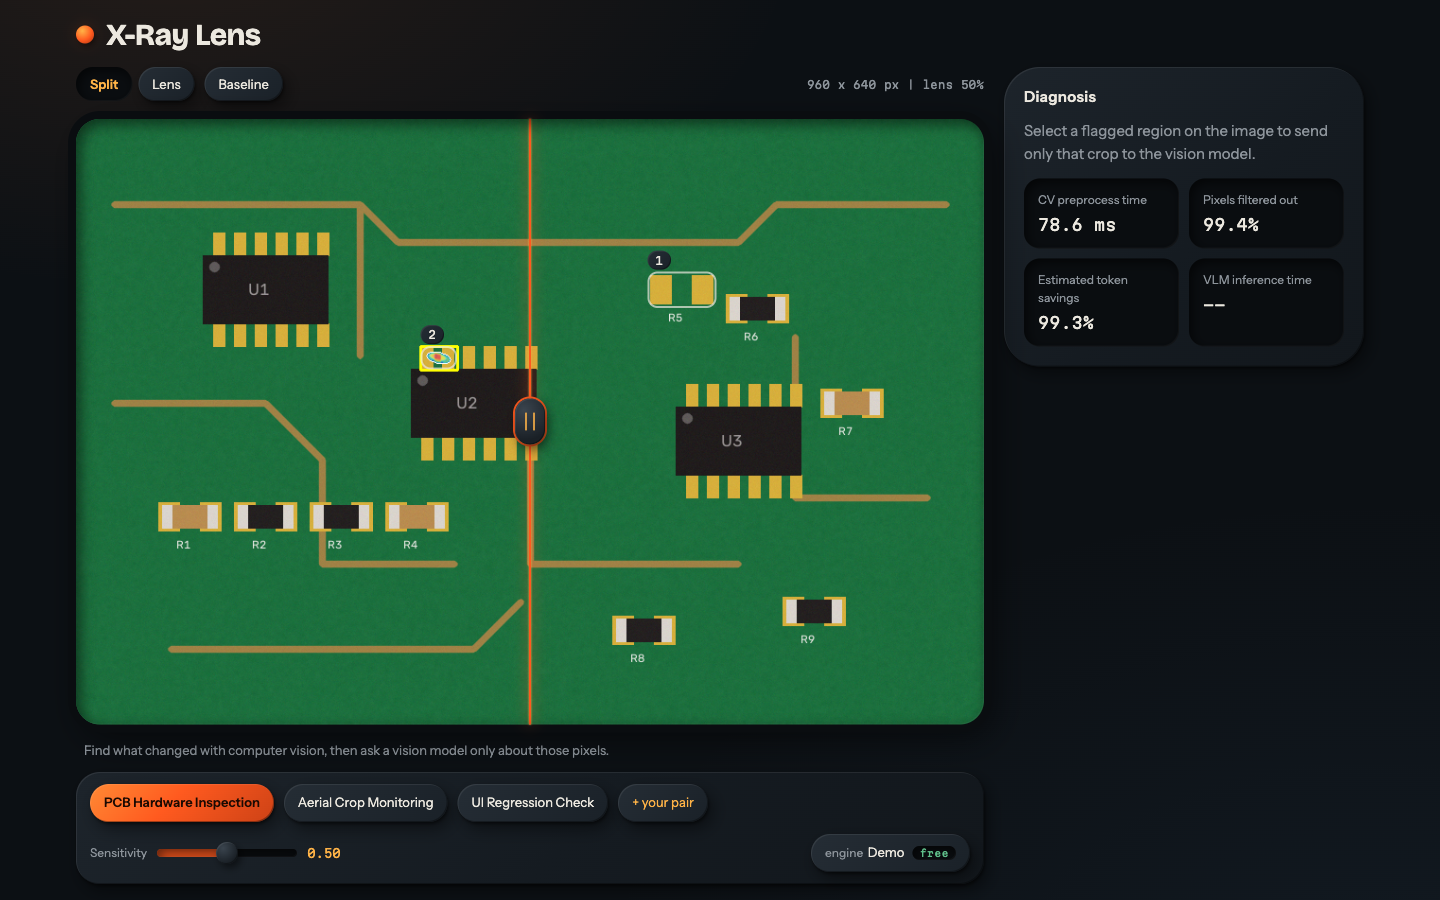
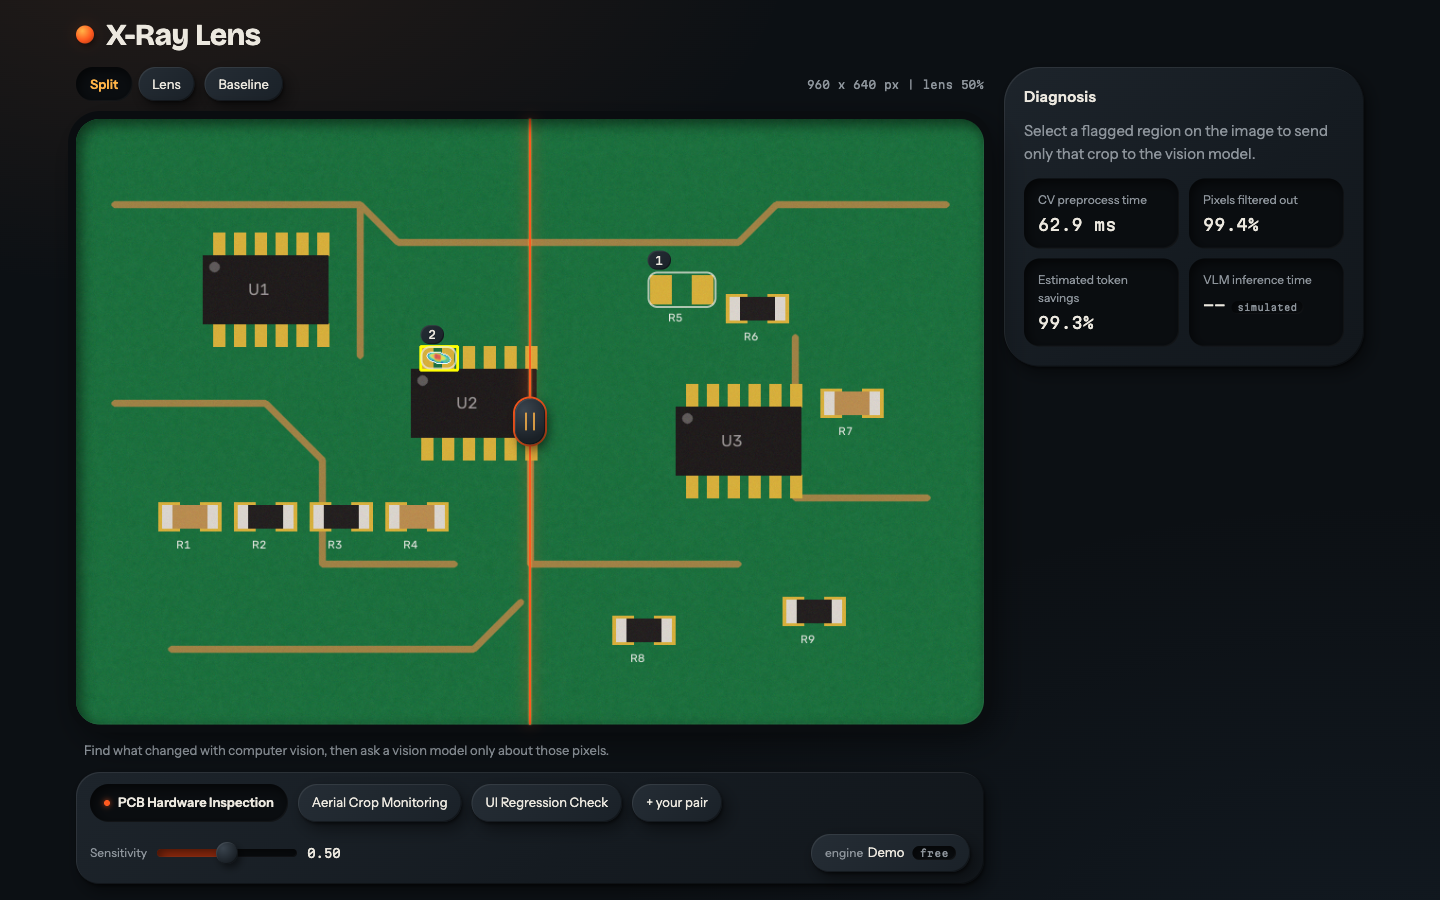
feat(frontend): one accent, simulated tag, mobile tray row, sheet focus return

Changed region(s): [[0.0625, 0.8711, 0.5, 0.9644], [0.7188, 0.2489, 0.75, 0.28]]

diff --git a/frontend/src/styles.css b/frontend/src/styles.css
@@ -83,12 +83,8 @@ button, select, input { font: inherit; color: inherit; }
 .chip:hover, .btn:hover, .seg button:hover, .seg-solo:hover, .file:hover, .sheet button:hover { transform: translateY(-1px); }
 .chip:active, .btn:active, .seg button:active, .seg-solo:active, .file:active, .sheet button:active { transform: scale(0.955); }
 [aria-pressed="true"].seg-solo, .seg [aria-pressed="true"] { background: var(--well); box-shadow: var(--recess); color: var(--paint-hi); font-weight: 600; }
-[aria-pressed="true"].chip {
-  background: linear-gradient(135deg, var(--paint-hi) -40%, var(--paint) 45%, var(--paint-deep) 140%);
-  color: #1c0a02;
-  font-weight: 600;
-  animation: pop var(--spring-snappy-dur) var(--spring-snappy);
-}
+[aria-pressed="true"].chip { background: var(--well); box-shadow: var(--recess); color: var(--text); font-weight: 600; transform: none; animation: pop var(--spring-snappy-dur) var(--spring-snappy); }
+[aria-pressed="true"].chip::before { content: ""; display: inline-block; width: 6px; height: 6px; margin: 0 8px 1px 0; border-radius: 50%; background: var(--paint); box-shadow: 0 0 6px var(--paint); }
 @keyframes pop { from { transform: scale(0.92); } to { transform: scale(1); } }
 .btn { background: linear-gradient(135deg, var(--paint-hi) -40%, var(--paint) 45%, var(--paint-deep) 140%); color: #1c0a02; font-weight: 600; }
 .btn:disabled { background: var(--well); box-shadow: var(--recess); color: var(--muted); cursor: not-allowed; transform: none; }
@@ -97,17 +93,17 @@ button, select, input { font: inherit; color: inherit; }
 .tray { position: relative; display: flex; flex-wrap: wrap; align-items: center; gap: 12px 18px; padding: 12px 14px; border-radius: var(--r-lg); background: var(--body); box-shadow: var(--rim), var(--contact); }
 .chips { display: flex; flex-wrap: wrap; gap: 10px; }
 .chip { font-size: 13px; }
-.chip-add { color: var(--paint-hi); }
-.tag { font-style: normal; font-size: 10px; letter-spacing: 0.04em; margin-left: 8px; padding: 1px 7px; border-radius: var(--r-pill); background: var(--well); box-shadow: var(--recess); color: var(--low); }
+.chip-add { color: var(--text); }
+.tag { font-style: normal; font-size: 10px; letter-spacing: 0.04em; margin-left: 8px; padding: 1px 7px; border-radius: var(--r-pill); background: var(--well); box-shadow: var(--recess); color: var(--muted); }
 .dim { color: var(--muted); font-size: 12px; margin-right: 2px; }
 [aria-pressed="true"].chip .dim { color: inherit; }
 .engine { margin-left: auto; position: relative; }
 
 .sens { display: flex; align-items: center; gap: 10px; font-size: 12px; color: var(--muted); }
-.sens output { color: var(--paint-hi); font-size: 12px; width: 4ch; }
+.sens output { color: var(--text); font-size: 12px; width: 4ch; }
 .sens input { -webkit-appearance: none; appearance: none; width: 140px; height: 22px; background: transparent; cursor: pointer; margin: 0; }
-.sens input::-webkit-slider-runnable-track { height: 8px; border-radius: var(--r-pill); box-shadow: var(--recess); background: linear-gradient(90deg, var(--paint) var(--fill, 50%), var(--well) var(--fill, 50%)); }
-.sens input::-moz-range-track { height: 8px; border-radius: var(--r-pill); box-shadow: var(--recess); background: linear-gradient(90deg, var(--paint) var(--fill, 50%), var(--well) var(--fill, 50%)); }
+.sens input::-webkit-slider-runnable-track { height: 8px; border-radius: var(--r-pill); box-shadow: var(--recess); background: linear-gradient(90deg, var(--paint-deep) var(--fill, 50%), var(--well) var(--fill, 50%)); }
+.sens input::-moz-range-track { height: 8px; border-radius: var(--r-pill); box-shadow: var(--recess); background: linear-gradient(90deg, var(--paint-deep) var(--fill, 50%), var(--well) var(--fill, 50%)); }
 .sens input::-webkit-slider-thumb { -webkit-appearance: none; width: 22px; height: 22px; margin-top: -7px; border-radius: 50%; border: 0; background: radial-gradient(circle at 32% 28%, #3a444e, #1a2026 70%); box-shadow: var(--rim), 3px 4px 8px rgba(0, 0, 0, 0.55); transition: transform var(--spring-snappy-dur) var(--spring-snappy); }
 .sens input::-moz-range-thumb { width: 22px; height: 22px; border-radius: 50%; border: 0; background: radial-gradient(circle at 32% 28%, #3a444e, #1a2026 70%); box-shadow: var(--rim), 3px 4px 8px rgba(0, 0, 0, 0.55); }
 .sens input:active::-webkit-slider-thumb { transform: scale(0.955); }
@@ -126,6 +122,7 @@ button, select, input { font: inherit; color: inherit; }
 /* ---- Stage ---- */
 .workspace { display: grid; grid-template-columns: minmax(0, 1fr) 360px; gap: 20px; align-items: start; }
 .view { position: relative; display: grid; gap: 12px; min-width: 0; }
+.view > * { min-width: 0; }
 .placeholder { aspect-ratio: 3 / 2; display: grid; place-items: center; color: var(--muted); border-radius: var(--r-lg); background: var(--well); box-shadow: var(--recess); padding: 16px; text-align: center; }
 .scan { position: absolute; right: 22px; top: 62px; z-index: 5; font: 12px var(--mono); color: var(--paint-hi); background: rgba(10, 13, 16, 0.8); padding: 3px 10px; border-radius: var(--r-pill); }
 
@@ -162,11 +159,11 @@ button, select, input { font: inherit; color: inherit; }
 .panel-head h2 { margin: 0 auto 0 0; font: 600 15px var(--sans); letter-spacing: 0.02em; }
 .panel .chip { min-height: 0; padding: 2px 10px; font: 11px var(--mono); color: var(--muted); background: var(--well); box-shadow: var(--recess); cursor: default; }
 .panel .chip:hover, .panel .chip:active { transform: none; }
-.panel .chip-cached { color: var(--low); }
 .hint { color: var(--muted); margin: 0; }
 .sent { margin: 0; display: grid; gap: 6px; }
 .sent img { max-width: 100%; max-height: 90px; justify-self: start; border-radius: var(--r-sm); image-rendering: pixelated; box-shadow: var(--contact); }
-.sent figcaption { font: 11px var(--mono); color: var(--muted); }
+.sent figcaption { display: grid; gap: 2px; font-size: 11px; color: var(--muted); }
+.sent figcaption b { font: 400 11px var(--mono); white-space: nowrap; }
 .raw { margin: 0; min-height: 120px; max-height: 260px; overflow: auto; white-space: pre-wrap; word-break: break-word; font-size: 11.5px; color: #9fb0bf; background: var(--well); border-radius: var(--r-md); box-shadow: var(--recess); padding: 14px; }
 .caret { display: inline-block; width: 7px; height: 13px; margin-left: 2px; background: var(--paint); vertical-align: -2px; animation: blink 1s steps(2) infinite; }
 @keyframes blink { 50% { opacity: 0; } }
@@ -190,7 +187,8 @@ button, select, input { font: inherit; color: inherit; }
 
 .telemetry { margin: 0; display: grid; grid-template-columns: 1fr 1fr; gap: 10px; }
 .telemetry div { background: var(--well); box-shadow: var(--recess); border-radius: var(--r-md); padding: 12px 14px; }
-.telemetry dd { margin: 4px 0 0; font-size: 16px; color: var(--text); }
+.telemetry dd { margin: 4px 0 0; font-size: 16px; color: var(--text); white-space: nowrap; }
+.telemetry .tag { margin-left: 6px; font-size: 9px; padding: 1px 6px; }
 
 @media (max-width: 960px) {
   .workspace { grid-template-columns: minmax(0, 1fr); }
@@ -198,9 +196,15 @@ button, select, input { font: inherit; color: inherit; }
 @media (max-width: 520px) {
   .app { padding: 14px 16px 32px; gap: 12px; }
   .stage { box-shadow: 0 0 0 6px var(--well), 6px 8px 24px rgba(0, 0, 0, 0.55); }
-  .sens { width: 100%; }
   .sens input { flex: 1; width: auto; min-width: 0; }
-  .engine { margin-left: 0; }
+  .engine { margin-left: auto; }
+  .tray { gap: 10px 12px; padding: 10px 12px; }
+  .chips { flex-wrap: nowrap; width: 100%; min-width: 0; overflow-x: auto; scroll-snap-type: x mandatory; scroll-padding: 0 4px; scrollbar-width: none; padding: 4px 4px 10px; margin: -4px -4px -6px; }
+  .chips::-webkit-scrollbar { display: none; }
+  .chip { flex: none; scroll-snap-align: start; white-space: nowrap; }
+  .sens span { display: none; }
+  .sens { flex: 1 1 0; min-width: 0; }
+  .sens input { width: 100%; }
   .sheet { min-width: 0; max-width: calc(100vw - 32px); }
   .sheet-pair { left: 0; }
   .readout { display: none; }

diff --git a/frontend/src/components/Toolbar.tsx b/frontend/src/components/Toolbar.tsx
@@ -1,4 +1,4 @@
-import { useState } from "react";
+import { useEffect, useRef, useState } from "react";
 import type { PresetOut, VlmBackend } from "../types";
 
 export interface ToolbarProps {
@@ -29,20 +29,38 @@ export function Toolbar(props: ToolbarProps) {
   const [open, setOpen] = useState<Popover>(null);
   const [baseline, setBaseline] = useState<File | null>(null);
   const [target, setTarget] = useState<File | null>(null);
+  const root = useRef<HTMLDivElement>(null);
+  const openers = useRef<Record<string, HTMLButtonElement | null>>({});
+  /** Closes the open sheet; Escape also returns focus to the chip that opened it. */
+  const close = (restoreFocus: boolean) => {
+    if (restoreFocus && open) openers.current[open]?.focus();
+    setOpen(null);
+  };
+  useEffect(() => {
+    if (!open) return;
+    const away = (e: MouseEvent) => root.current && !root.current.contains(e.target as Node) && setOpen(null);
+    document.addEventListener("mousedown", away);
+    return () => document.removeEventListener("mousedown", away);
+  }, [open]);
+  // Keep the active slide in view in the horizontally scrolling mobile row.
+  useEffect(() => {
+    const el = root.current?.querySelector<HTMLElement>(".chips [aria-pressed=true]");
+    el?.scrollIntoView?.({ inline: "nearest", block: "nearest" });
+  }, [presetId, presets.length]);
   const toggle = (p: Exclude<Popover, null>) => setOpen((cur) => (cur === p ? null : p));
   const pick = (set: (f: File | null) => void) => (e: React.ChangeEvent<HTMLInputElement>) =>
     set(e.target.files?.[0] ?? null);
   const current = BACKENDS.find((b) => b.id === backend) ?? BACKENDS[0];
 
   return (
-    <div className="tray" onKeyDown={(e) => e.key === "Escape" && setOpen(null)}>
+    <div className="tray" ref={root} onKeyDown={(e) => e.key === "Escape" && close(true)}>
       <div className="chips" role="group" aria-label="Presets">
         {presets.map((p) => (
           <button key={p.id} type="button" className="chip" aria-pressed={presetId === p.id} onClick={() => props.onPresetChange(p.id)}>
             {p.label}
           </button>
         ))}
-        <button type="button" className="chip chip-add" aria-pressed={presetId === null} aria-expanded={open === "pair"} aria-haspopup="dialog" onClick={() => toggle("pair")}>
+        <button type="button" ref={(el) => { openers.current.pair = el; }} className="chip chip-add" aria-pressed={presetId === null} aria-expanded={open === "pair"} aria-haspopup="dialog" onClick={() => toggle("pair")}>
           + your pair
         </button>
       </div>
@@ -63,7 +81,7 @@ export function Toolbar(props: ToolbarProps) {
       </label>
 
       <div className="engine">
-        <button type="button" className="chip" aria-expanded={open === "engine"} aria-haspopup="menu" onClick={() => toggle("engine")}>
+        <button type="button" ref={(el) => { openers.current.engine = el; }} className="chip" aria-expanded={open === "engine"} aria-haspopup="menu" onClick={() => toggle("engine")}>
           <span className="dim">engine</span> {current.short}
           {current.tag && <i className="tag">{current.tag}</i>}
         </button>

diff --git a/frontend/src/components/DiagnosisPanel.tsx b/frontend/src/components/DiagnosisPanel.tsx
@@ -18,7 +18,7 @@ export interface Telemetry {
 }
 
 /** Streaming diagnosis card plus the four-cell telemetry bar. */
-export function DiagnosisPanel({ diagnosis, telemetry }: { diagnosis: Diagnosis; telemetry: Telemetry }) {
+export function DiagnosisPanel({ diagnosis, telemetry, simulated = false }: { diagnosis: Diagnosis; telemetry: Telemetry; simulated?: boolean }) {
   const { status, result, sent } = diagnosis;
   const [sentUrl, setSentUrl] = useState<string | null>(null);
   useEffect(() => {
@@ -28,11 +28,11 @@ export function DiagnosisPanel({ diagnosis, telemetry }: { diagnosis: Diagnosis;
     return () => URL.revokeObjectURL(url);
   }, [sent]);
   const report = result?.report;
-  const cells: [string, string][] = [
+  const cells: [string, string, boolean?][] = [
     ["CV preprocess time", `${telemetry.cvTimeMs.toFixed(1)} ms`],
     ["Pixels filtered out", `${telemetry.pixelsFilteredPct.toFixed(1)}%`],
     ["Estimated token savings", `${telemetry.tokenSavingsPct.toFixed(1)}%`],
-    ["VLM inference time", result ? `${Math.round(result.vlm_time_ms)} ms` : "--"],
+    ["VLM inference time", result ? `${Math.round(result.vlm_time_ms)} ms` : "--", simulated],
   ];
 
   return (
@@ -46,7 +46,10 @@ export function DiagnosisPanel({ diagnosis, telemetry }: { diagnosis: Diagnosis;
       {sent && sentUrl && (
         <figure className="sent">
           <img src={sentUrl} alt="Composite sent to the VLM" />
-          <figcaption>{`Sent to VLM: baseline | target, ${sent.width} x ${sent.height} px`}</figcaption>
+          <figcaption>
+            <span>Sent to VLM</span>
+            <b>{`baseline | target · ${sent.width}×${sent.height} px`}</b>
+          </figcaption>
         </figure>
       )}
 
@@ -98,10 +101,10 @@ export function DiagnosisPanel({ diagnosis, telemetry }: { diagnosis: Diagnosis;
       )}
 
       <dl className="telemetry">
-        {cells.map(([label, value]) => (
+        {cells.map(([label, value, sim]) => (
           <div key={label}>
             <dt>{label}</dt>
-            <dd>{value}</dd>
+            <dd>{value}{sim && <i className="tag">simulated</i>}</dd>
           </div>
         ))}
       </dl>

diff --git a/frontend/src/__tests__/DiagnosisPanel.test.tsx b/frontend/src/__tests__/DiagnosisPanel.test.tsx
@@ -75,7 +75,7 @@ describe("DiagnosisPanel", () => {
     Object.assign(URL, { createObjectURL: create, revokeObjectURL: revoke });
     const sent = { blob: new Blob(["x"], { type: "image/png" }), width: 108, height: 30 };
     const { unmount } = render(<DiagnosisPanel diagnosis={{ ...done, sent }} telemetry={telemetry} />);
-    expect(screen.getByText("Sent to VLM: baseline | target, 108 x 30 px")).toBeInTheDocument();
+    expect(screen.getByText("baseline | target · 108×30 px")).toBeInTheDocument();
     expect(screen.getByAltText("Composite sent to the VLM")).toHaveAttribute("src", "blob:sent");
     unmount();
     expect(revoke).toHaveBeenCalledWith("blob:sent");

diff --git a/frontend/src/App.tsx b/frontend/src/App.tsx
@@ -116,6 +116,7 @@ export default function App() {
         </div>
         <DiagnosisPanel
           diagnosis={diagnosis}
+          simulated={backend === "demo"}
           telemetry={{ cvTimeMs: data?.cv_time_ms ?? 0, pixelsFilteredPct: data?.pixels_filtered_pct ?? 0, tokenSavingsPct: data?.estimated_token_savings_pct ?? 0 }}
         />
       </main>
